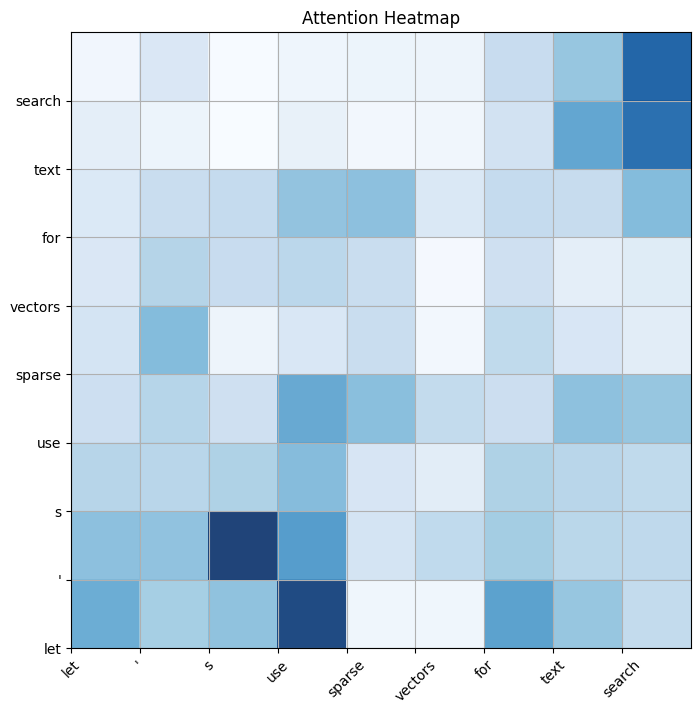
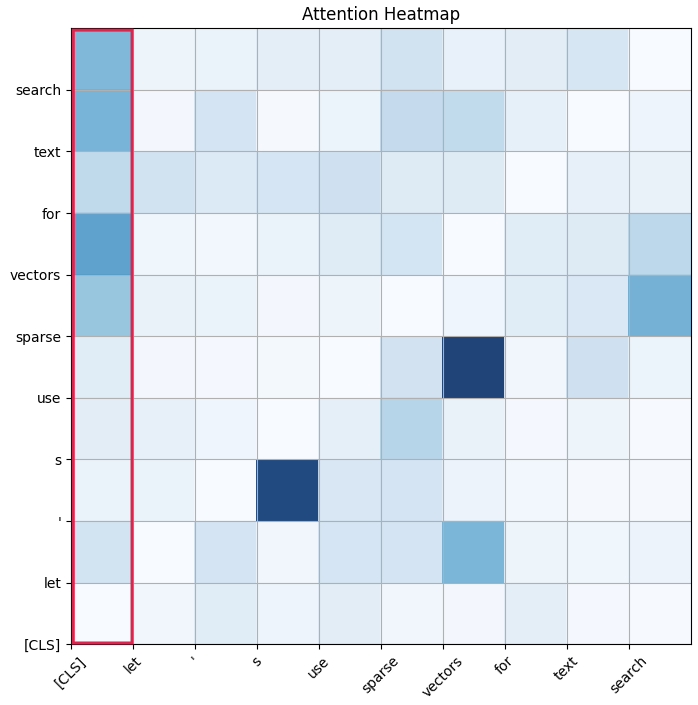
upd the article

diff --git a/qdrant-landing/content/articles/bm42.md b/qdrant-landing/content/articles/bm42.md
@@ -14,31 +14,31 @@ keywords:
   - bm25
 ---
 
-For the last 40 years, BM25 has been the de-facto standard for search engines. 
-It is a simple, yet powerful algorithm that has been used in many search engines, including Google, Bing, and Yahoo.
+For the last 40 years, BM25 has been the de facto standard for search engines. 
+It is a simple yet powerful algorithm that has been used in many search engines, including Google, Bing, and Yahoo.
 
 It seemed that with the advent of vector search, its influence should have diminished, but it only partially did.
-Current state-of-the-art approach to retrieval nowadays tries to incorporate BM25 along with embeddings into a hybrid search system.
+The current state-of-the-art approach to retrieval nowadays tries to incorporate BM25 along with embeddings into a hybrid search system.
 
-However, the use-case of text retrieval has significantly shifted since the introduction of RAG.
-Many assumptions, on which BM25 was built, are no longer valid. 
+However, the use case of text retrieval has significantly shifted since the introduction of RAG.
+Many assumptions on which BM25 was built are no longer valid. 
 
 For example, the the typical length of the document and the query, as used in web-search, have little to do with the typical length of the document and the query in the RAG systems.
 
 
-In this article we will try to understand which strong sides of BM25 made it relevant for so many years, why current alternatives were struggling to replace it, and how we can make a next step in the evolution of lexical search.
+In this article, we will try to understand which strengths of BM25 made it relevant for so many years, why current alternatives struggled to replace it, and how we can take the next step in the evolution of lexical search.
 
 ## Why BM25 was relevant
 
-To understand why BM25 stayed relevant for so long, we need to look into how it works.
+To understand why BM25 stayed relevant for so long, we must look into how it works.
 
-Famous BM25 formula is defined as:
+The famous BM25 formula is defined as:
 
 $$
-\text{score}(D,Q) = \sum_{i=1}^{N} \text{IDF}(q_i) \cdot \frac{f(q_i, D) \cdot (k_1 + 1)}{f(q_i, D) + k_1 \cdot \left(1 - b + b \cdot \frac{|D|}{\text{avgdl}}\right)}
+\text{score}(D,Q) = \sum_{i=1}^{N} \text{IDF}(q_i) \times \frac{f(q_i, D) \cdot (k_1 + 1)}{f(q_i, D) + k_1 \cdot \left(1 - b + b \cdot \frac{|D|}{\text{avgdl}}\right)}
 $$
 
-Let's dumb it down a bit, to get some intuition behind it.
+Let's dumb it down a bit to get some intuition behind it.
 
 - The $score(D, Q)$ - means, that we compute the score for each pair of document $D$ and query $Q$.
 
@@ -50,8 +50,8 @@ $$
 \text{IDF}(q_i) = \frac{\text{Number of documents}}{\text{Number of documents with } q_i}
 $$
 
-It should be fair to say, that the `IDF` is the most important part of the BM25 formula.
-It is responsible for selecting the most important terms in the query, relative to the specific document collection.
+It should be fair to say that the `IDF` is the most important part of the BM25 formula.
+It is responsible for selecting the most important terms in the query relative to the specific document collection.
 So intuitively, we can interpret the `IDF` as **term importance within the corpora**.
 
 That explains why BM25 is so good at handling queries, which dense embeddings consider out-of-domain.
@@ -70,93 +70,135 @@ $$
 #### Will BM25 term importance in the document work for RAG?
 
 As we can see, the *term importance in the document* heavily depends on statistics within the document. And statistics works well if the document is long enough.
-So it works well for searcing web-pages, books, articles, etc.
+So it works well for searching web pages, books, articles, etc.
 
 However, would it work as well for modern search applications, such as RAG? Let's see.
 
-The typical length of the document in RAG is much shorter than in the web-search. In fact, even if we are working with the web-pages and articles, we prefer to split them into chunks, so that
+The typical length of the document in RAG is much shorter than that in web search. In fact, even if we are working with the web-pages and articles, we prefer to split them into chunks so that
 a) Dense models can handle them and
-b) We can pin-point the exact part of the document, which is relevant to the query
+b) We can pinpoint the exact part of the document which is relevant to the query
 
-As a result, document size in RAG is small and fixed.
+As a result, the document size in RAG is small and fixed.
 
 That effectively renders the term importance in the document part of the BM25 formula useless. 
 The term frequency in the document is always 0 or 1, and the relative length of the document is always 1.
 
-So, the only part of the BM25 formula, which is still relevant for RAG, is `IDF`. Let's see how we can leverage it.
+So, the only part of the BM25 formula that is still relevant for RAG is `IDF`. Let's see how we can leverage it.
 
 ## Why SPLADE is not always the answer
 
-Before discussing the new approach we propose, let's take a look at the current state-of-the-art alternative to BM25 - SPLADE.
+Before discussing our new approach, let's examine the current state-of-the-art alternative to BM25 - SPLADE.
 
-The idea behind SPLADE is interesting - what if we let smart end-to-end trained model to generate bag-of-words representation of the text for us?
-It will assign all the weights to the tokens, so that we won't need to bother about statistics and hyperparameters.
+The idea behind SPLADE is interesting—what if we let a smart, end-to-end trained model generate a bag-of-words representation of the text for us?
+It will assign all the weights to the tokens, so we won't need to bother with statistics and hyperparameters.
 The documents are then represented as a sparse embedding, where each token is represented as an element of the sparse vector.
 
-And it works in academic benchmarks. There are many papers, which report that SPLADE outperforms BM25 in terms of retrieval quality.
+And it works in academic benchmarks. Many papers report that SPLADE outperforms BM25 in terms of retrieval quality.
 This performance, however, comes at a cost.
 
-* **Inappropriate Tokenizer**: In order to incorporate transformers for this task, SPLADE models require to use standard transformer tokenizer. This kind of tokenizers are not designed for retrival tasks. for example, if the word in not in (quite limiter) vocabulary, it will be either split into subwords or replaced with `[UNK]` token. This behavior works well for language modeling, but completely destructive for retrieval tasks.
+* **Inappropriate Tokenizer**: To incorporate transformers for this task, SPLADE models require using a standard transformer tokenizer. These tokenizers are not designed for retrieval tasks. For example, if the word is not in the (quite limited) vocabulary, it will be either split into subwords or replaced with a `[UNK]` token. This behavior works well for language modeling but is completely destructive for retrieval tasks.
 
-* **Expensive Token Expansion**: In order to compensate the tokenization issues, SPLADE uses *token expansion* technique. It means, that for each token in the query, we generate a set of similar tokens. There are a few problems with this approach:
-  - It is computationally and memory expensive. For each token in the document we need to generate more values, which increases both the size of the storage and the time of the retrieval.
-  - It is not always clear, where to stop with the token expansion. The more tokens we generate, the more likely we are to get the relevant one. But at the same time, the more tokens we generate, the more likely we are to get the irrelevant results.
-  - Token expansion dilutes the interpretability of the search. We can't say anymore, which tokens were actually used in the document, and which were generated by the token expansion.
+* **Expensive Token Expansion**: In order to compensate the tokenization issues, SPLADE uses *token expansion* technique. This means that we generate a set of similar tokens for each token in the query. There are a few problems with this approach:
+  - It is computationally and memory expensive. We need to generate more values for each token in the document, which increases both the storage size and retrieval time.
+  - It is not always clear where to stop with the token expansion. The more tokens we generate, the more likely we are to get the relevant one. But simultaneously, the more tokens we generate, the more likely we are to get irrelevant results.
+  - Token expansion dilutes the interpretability of the search. We can't say which tokens were used in the document and which were generated by the token expansion.
 
-* **Domain and Language Dependency**: SPLADE models are trained on the specific corpora. It means, that they are not always generalizable to the new or rare domains. As it doesn't use any statistics from the corpora, it is not able to adapt to the new domain without fine-tuning.
+* **Domain and Language Dependency**: SPLADE models are trained on specific corpora. This means that they are not always generalizable to new or rare domains. As they don't use any statistics from the corpora, they cannot adapt to the new domain without fine-tuning.
 
-* **Inference Time**: On top of that, currently available SPLADE models are quite big and slow. They usually require GPU to make the inference in reasonable time.
+* **Inference Time**: Additionally, currently available SPLADE models are quite big and slow. They usually require a GPU to make the inference in a reasonable time.
 
-At Qdrant we acknowledge the aforementioned problems and were looking for the solution. 
-Our idea was to combine the best of both worlds - the simplicity and interpretability of BM25 and the intelligence of transformers, while avoiding the pitfalls of SPLADE.
+At Qdrant, we acknowledge the aforementioned problems and are looking for a solution. 
+Our idea was to combine the best of both worlds - the simplicity and interpretability of BM25 and the intelligence of transformers while avoiding the pitfalls of SPLADE.
 
 And here is what we came up with.
 
 ## The best of both worlds 
 
 We already discussed, that the most important part of the BM25 formula is the `IDF`. In fact it is so imporant, that we decided to move its calculation into the Qdrant engine itself.
-Check out our latest release notes: **TODO LINK HERE**. This type of separation allows streaming updates of the sparse embeddings, while keeping the `IDF` calculation up-to-date.
+Check out our latest release notes: **TODO LINK HERE**. This type of separation allows streaming updates of the sparse embeddings while keeping the `IDF` calculation up-to-date.
 
-As for the second part of the formula, *term importance within the document* needs to be rethought.
+As for the second part of the formula, *the term importance within the document* needs to be rethought.
 
 Since we can't rely on the statistics within the document, we can try to use semantics of the document instead.
 And semantics is what transformers are good at. We only need to solve two problems:
 
-- How to extract importance information from the transformer?
+- How do you extract the importance information from the transformer?
 - How to avoid the tokenization issues?
 
 
 ### Attention is all you need
 
 Transformer models, even those used to generate embeddings, generate a bunch of different outputs.
-Some of those outputs are used for generating embeddings. 
+Some of those outputs are used to generate embeddings. 
 
-Others are used to solve other kind of tasks, such as classification, text generation, etc.
+Others are used to solve other kinds of tasks, such as classification, text generation, etc.
 
-The one particularlly interesting output for us is the attention matrix.
+The one particularly interesting output for us is the attention matrix.
 
 {{< figure src="/articles_data/bm42/attention-matrix.png" alt="Attention matrix" caption="Attention matrix" width="60%" >}}
 
 The attention matrix is a square matrix, where each row and column corresponds to the token in the input sequence.
 It represents the importance of each token in the input sequence for each other.
 
-The classical transformer models are trained to predict masked tokens in the context, so the attention defines which of the context tokens have the most influence on the masked token.
+The classical transformer models are trained to predict masked tokens in the context, so the attention weights define which context tokens influence the masked token most.
 
-Apart from the regular text tokens, the transformer model also has special token called `[CLS]`. This token is used to represent the whole sequence in the classification tasks. And this is exactly what we need.
+Apart from the regular text tokens, the transformer model also has a special token called `[CLS]`. This token represents the whole sequence in the classification tasks, which is exactly what we need.
 
 By looking at the attention row for the `[CLS]` token, we can get the importance of each token in the document for the whole document.
 
 
-ToDo: Example here
+```python
+sentences = "Hello, World - is the starting point in most programming languages"
+
+features = transformer.tokenize(sentences)
+
+# ...
+
+attentions = transformer.auto_model(**features, output_attentions=True).attentions
+
+weights = torch.mean(attentions[-1][0,:,0], axis=0)                       
+#                ▲               ▲  ▲   ▲                                 
+#                │               │  │   └─── [CLS] token is the first one 
+#                │               │  └─────── First item of the batch         
+#                │               └────────── Last transformer layer       
+#                └────────────────────────── Averate all 6 attention heads
+
+for weight, token in zip(weights, tokens):
+    print(f"{token}: {weight}")
+
+# [CLS]       : 0.434 // Filter out the [CLS] token
+# hello       : 0.039
+# ,           : 0.039
+# world       : 0.107 // <-- The most important token
+# -           : 0.033
+# is          : 0.024
+# the         : 0.031
+# starting    : 0.054
+# point       : 0.028
+# in          : 0.018
+# most        : 0.016
+# programming : 0.060 // <-- The third most important token
+# languages   : 0.062 // <-- The second most important token
+# [SEP]       : 0.047 // Filter out the [SEP] token
+
+```
 
 
-Note, that classical transformers have multiple attention heads, so we can get multiple importance vectors for the same document. The simplest way to combine them is to simply average them.
+The resulting formula for the BM42 score would look like this:
+
+$$
+\text{score}(D,Q) = \sum_{i=1}^{N} \text{IDF}(q_i) \times \text{Attention}(\text{CLS}, q_i)
+$$
+
+
+Note that classical transformers have multiple attention heads, so we can get multiple importance vectors for the same document. The simplest way to combine them is to simply average them.
 
 Those averaged attention vectors is the importance information we were looking for.
 And the best part of it is, that you can get it from any transformer model, without any additional training.
 So naturally, BM42 supports any natural language as long as you have a transformer model for it.
 
-In our implementation, we use the `sentence-transformers/all-MiniLM-L6-v2` model, which gives a huge boost in the inference speed compared to the SPLADE models.
+In our implementation, we use the `sentence-transformers/all-MiniLM-L6-v2` model, which gives a huge boost in the inference speed compared to the SPLADE models. But in practice, any transfotmer model can be used. 
+It doesn't require any additional training, and can be easily adapted to work as BM42 backend.
 
 
 ### BPE retokenization
@@ -191,7 +233,7 @@ In this way we significantly reduce the number of tokens, and therefore minimize
 
 | Trait                   | BM25         | SPLADE       | BM42         |
 |-------------------------|--------------|--------------|--------------|
-| Interpretability        | High ✅      | Ok 🆗  ,      | High ✅      |
+| Interpretability        | High ✅      | Ok 🆗        | High ✅      |
 | Document Inference speed| Very high ✅ | Slow 🐌      | High ✅      |
 | Query Inference speed   | Very high ✅ | Slow 🐌      | Very high ✅ |
 | Memory footprint        | Low ✅       | High ❌      | Low ✅       |
@@ -204,9 +246,109 @@ In this way we significantly reduce the number of tokens, and therefore minimize
 | Best Match              | Yes ✅       | No ❌        | Yes ✅       |
 
 
-ToDO: Example of Bm42 inference with FastEmbed
+Starting from Qdrant v1.10.0, BM42 can be used in Qdrant via Fastembed inference.
 
-ToDo: Benchmark results
+Let's see how you can setup collection for hybrid search with BM42 and [jina.ai](https://jina.ai/embeddings/) dense embeddings.
+
+```http
+PUT collections/my-hybrid-collection
+{
+  "vectors": {
+    "jina": {
+      "size": 768,
+      "distance": "Cosine"
+    }
+  },
+  "sparse_vectors": {
+    "bm42": {
+      "modifier": "idf" // <--- This parameter enables the IDF calculation
+    }
+  }
+}
+```
+
+```python
+from qdrant_client import QdrantClient, models
+
+client = QdrantClient()
+
+client.create_collection(
+    collection_name="my-hybrid-collection",
+    vectors_config={
+        "jina": models.VectorParams(
+            size=768,
+            distance=models.Distance.COSINE,
+        )
+    },
+    sparse_vectors_config={
+        "bm42": models.SparseVectorParams(
+            modifier=models.Modifier.IDF,
+        )
+    }
+)
+```
+
+The search query will retrieve the documents with both dense and sparse embeddings and combine the scores
+using Reciprocal Rank Fusion (RRF) algorithm.
+
+```python
+from fastembed import SparseTextEmbedding, TextEmbedding
+
+query_text = "best programming language for beginners?"
+
+model_bm42 = SparseTextEmbedding(model_name="Qdrant/bm42-all-minilm-l6-v2-attentions")
+model_jina = TextEmbedding(model_name="jinaai/jina-embeddings-v2-base-en")
+
+sparse_embedding = list(embedding_model.embed_query(query_text))[0]
+dense_embedding = list(model_jina.embed_query(query_text))[0]
+
+client.query_points(
+  collection_name="my-hybrid-collection",
+  prefetch=[
+      models.Prefetch(query=sparse_embedding, using="bm42", limit=10),
+      models.Prefetch(query=dense_embedding,  using="jina", limit=10),
+  ],
+  query=models.Fusion.RRF, # <--- Combine the scores
+  limit=10
+)
+
+```
+
+### Benchmarks
+
+To prove the point further we have conducted some benchmarks to highlight the cases where BM42 outperforms BM25.
+Please note, that we didn't have an intention to make an exhaustive evaluation, as we are presenting a new approach, not a new model.
+
+For out experiments we choose [quora](https://huggingface.co/datasets/BeIR/quora) dataset, as a good representative of the Question-Answering task.
+The typical example of the dataset is the following:
+
+```text
+{"_id": "109", "text": "How GST affects the CAs and tax officers?"}
+{"_id": "110", "text": "Why can't I do my homework?"}
+{"_id": "111", "text": "How difficult is it get into RSI?"}
+```
+
+As you can see, it has pretty short texts, there are not much of the statistics to rely on.
+
+After encoding with BM42, the average vector size is only **5.6 elements per document**.
+
+With `datatype: uint8` available in Qdrant, the total size of the sparse vector index is about **13Mb** for ~530k documents.
+
+
+|               | BM25 | BM42     |
+|---------------|------|----------|
+|Precision @ 10 | 0.45 | **0.49** |
+
+
+Please note, that both BM25 and BM42 won't work well on their own in production environment.
+Best results are achieved with combination of Sparse and Dense embeddings in a hybrid approach.
+In this scenario, those two models are complementary to each other.
+Sparse model is responsible for the exact token matching, while Dense model is responsible for the semantic matching.
+
+
+Some more advanced models might outperform default `sentence-transformers/all-MiniLM-L6-v2` model we were using.
+We encourage developers involved in training embedding models to include a way to extract attention weights and contribute to the BM42 backend.
+
 
 ## Stay curious
 
